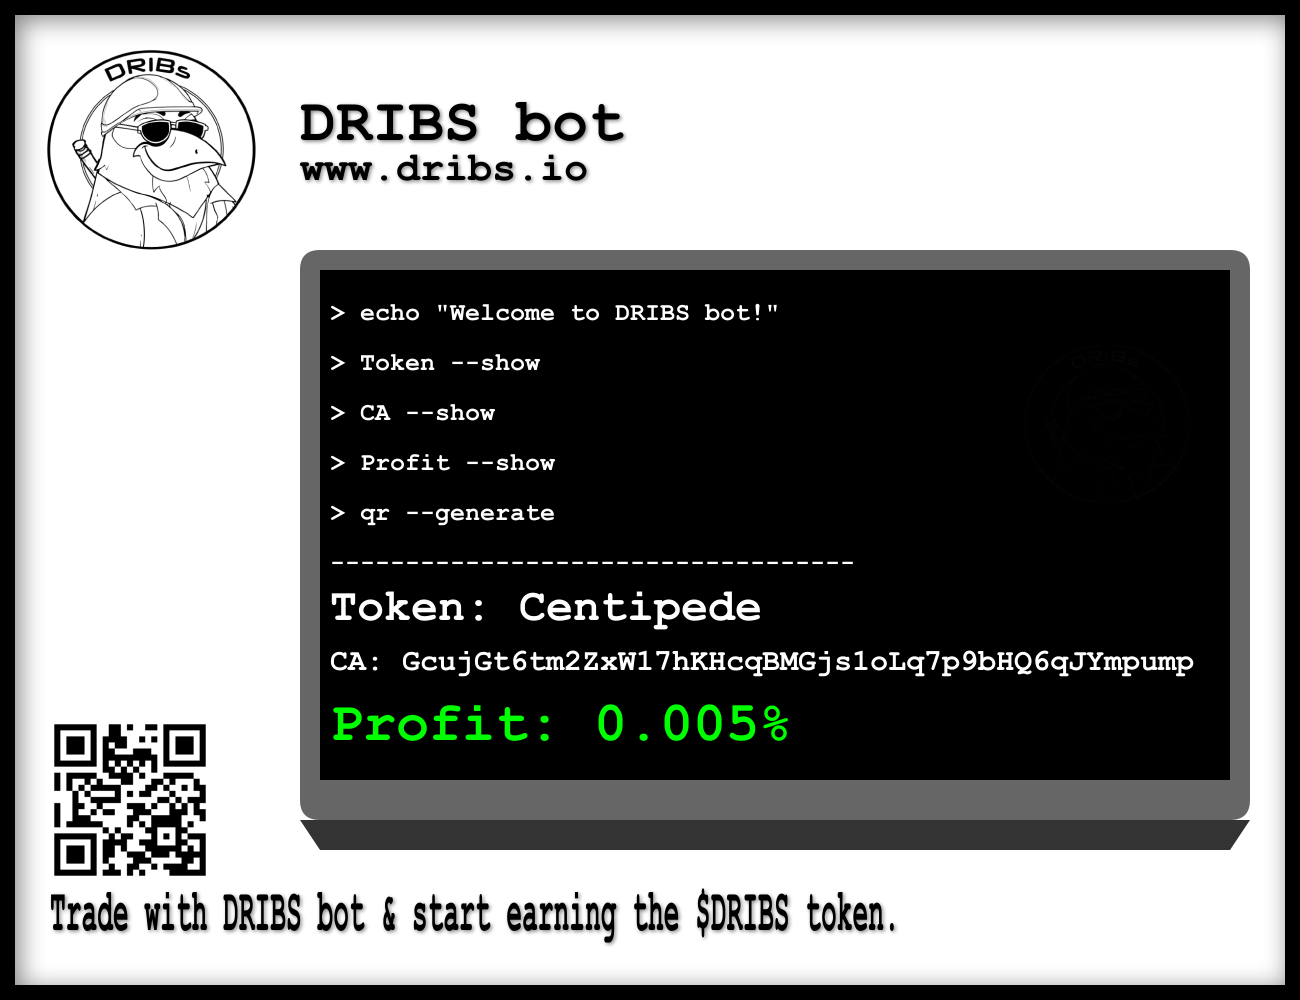
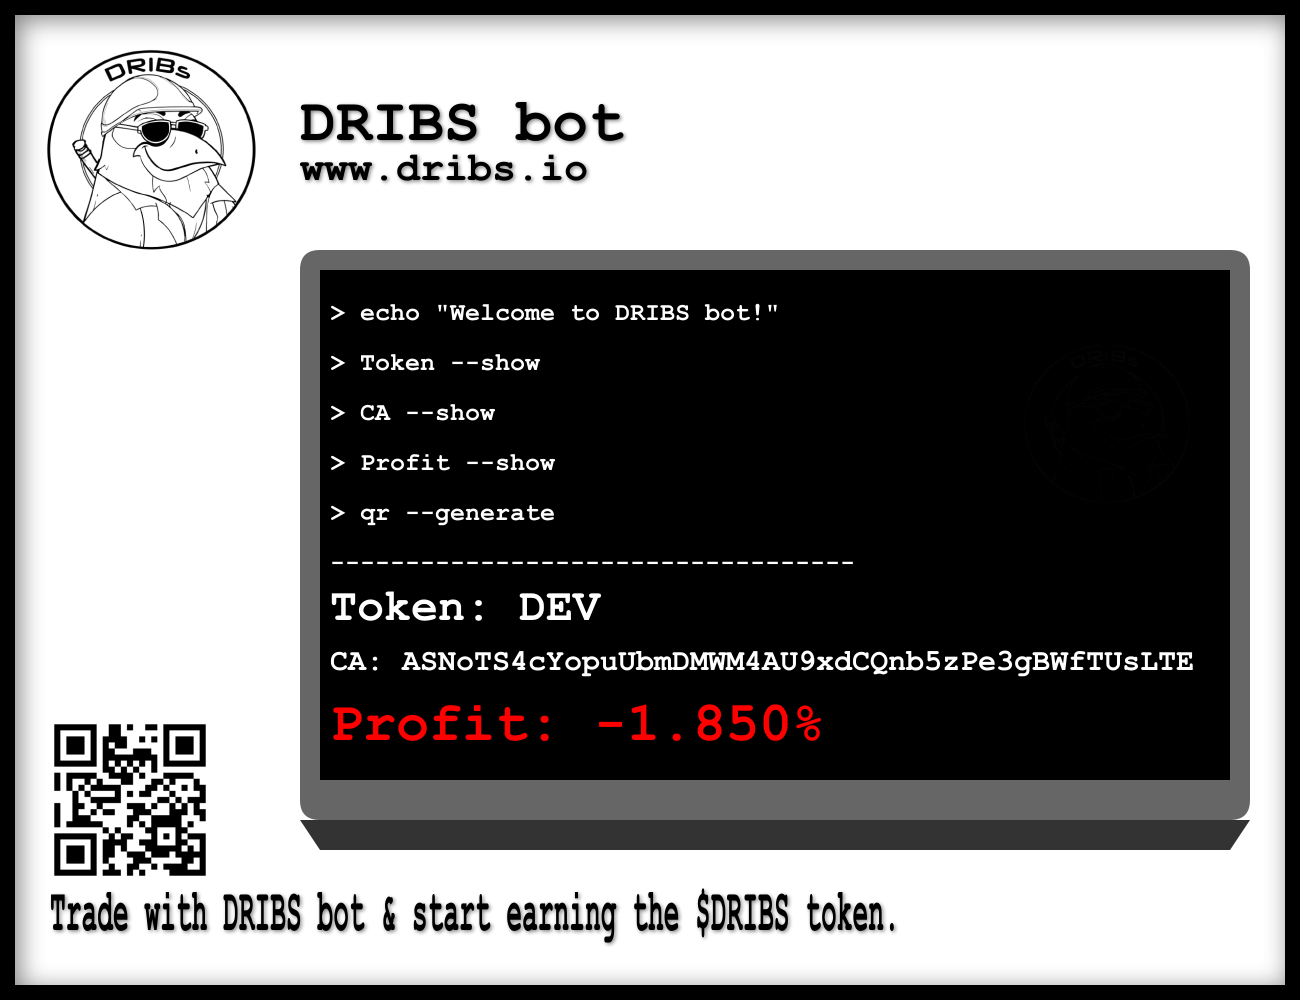
meteora verif

Changed region(s): [[0.2462, 0.651, 0.9231, 0.744], [0.4, 0.589, 0.5846, 0.62]]

diff --git a/src/views/jupiter/swapView.ts b/src/views/jupiter/swapView.ts
@@ -209,7 +209,7 @@ export async function display_jupSwapDetails(ctx: any, isRefresh: boolean) {
       // check if the token is tradable on jupiter
       const feeAccount = null;
       let swapUrl = `${rpcUrl}/jupiter/quote?inputMint=${SOL_ADDRESS}&outputMint=${token}&amount=${1}&slippageBps=${ctx.session.latestSlippage}${feeAccount ? '&platformFeeBps=08' : ''}`.trim();
-      
+      const optionsBird = {method: 'GET', headers: {'X-API-KEY': '2036bb1a097a4414a86ba8e3a8bdafbf'}};
       const [
         shitBalance,
         birdeyeData,
@@ -220,7 +220,9 @@ export async function display_jupSwapDetails(ctx: any, isRefresh: boolean) {
         userPosition,
         jupPriceImpact_5,
         jupSolPrice,
-        quoteResponse
+        quoteResponse,
+        tokenMarketData
+
       ] = await Promise.all([
         getuserShitBalance(publicKeyString,token, connection),
         getTokenDataFromBirdEyePositions(token, publicKeyString),
@@ -231,9 +233,23 @@ export async function display_jupSwapDetails(ctx: any, isRefresh: boolean) {
         UserPositions.find({ walletId: publicKeyString }, { positions: { $slice: -7 } }),
         fetch(`${rpcUrl}/jupiter/quote?inputMint=${SOL_ADDRESS}&outputMint=${token}&amount=${'5000000000'}&slippageBps=${1}`).then((response) => response.json()),
         fetch(`https://price.jup.ag/v6/price?ids=SOL`).then((response) => response.json()),
-        fetch(swapUrl).then(res => res.json())
-      ]);
+        fetch(swapUrl).then(res => res.json()),
+        fetch(`https://public-api.birdeye.so/defi/v2/markets?address=${token}&sort_by=liquidity&sort_type=desc`,optionsBird).then(response => response.json()),
 
+      ]);
+      // console.log('tokenMarketData:', tokenMarketData.data.items[0])
+      const items = tokenMarketData.data.items;
+      const exists = items.map((item: any) => ({
+        address: item.address,
+        hasMeteora: item.source.includes('Meteora')
+      }));
+      let onMeteora = false;
+    if(exists.length > 0){
+      const meteora = exists.find((item: any) => item.hasMeteora === true);
+      if(meteora){
+        onMeteora = true;
+      }
+    }
       const {
         
         birdeyeURL,
@@ -243,9 +259,9 @@ export async function display_jupSwapDetails(ctx: any, isRefresh: boolean) {
 
       const jupTokenValue: any = Object.values(jupTokenRate.data);
       let jupTokenPrice = 0;
-      // console.log('quoteResponse?.error_code:', quoteResponse)
-      if (jupTokenValue[0] && jupTokenValue[0].price && (quoteResponse?.errorCode !== 'TOKEN_NOT_TRADABLE' && quoteResponse?.errorCode !== 'COULD_NOT_FIND_ANY_ROUTE' ) ) {
-   
+      // console.log('tokenMetadataResult:', tokenMetadataResult)
+      if (jupTokenValue[0] && jupTokenValue[0].price && (quoteResponse?.errorCode !== 'TOKEN_NOT_TRADABLE' && quoteResponse?.errorCode !== 'COULD_NOT_FIND_ANY_ROUTE' ) || 
+      jupTokenValue[0] && jupTokenValue[0].price && (quoteResponse?.errorCode !== 'TOKEN_NOT_TRADABLE' && onMeteora === true)) {
         jupTokenPrice = jupTokenValue[0].price;
         console.log('jupToken')
         //if not on jupiter check if token is on raydium 
@@ -328,6 +344,7 @@ export async function display_jupSwapDetails(ctx: any, isRefresh: boolean) {
         profitInUSD = valueInUSD != 'N/A' ? Number(Number(userTokenDetails.userTokenBalance) * Number(tokenPriceUSD)) - initialInUSD : 'N/A';
         profitInSol = valueInSOL != 'N/A' ? (valueInSOL - initialInSOL).toFixed(4) : 'N/A';
       }
+      
       ctx.session.userProfit = Number(profitPercentage)
       const freezable = birdeyeData?.response2.data.freezeable ? "⚠ Be careful: This token is freezable." : "✅ Not freezable.";
       let messageText = `<b>------ ${tokenData.name}(${tokenData.symbol}) ------</b> | 📄 CA: <code>${token}</code> <a href="copy:${token}">🅲</a>\n` +

diff --git a/src/views/util/verifySwapDex.ts b/src/views/util/verifySwapDex.ts
@@ -9,22 +9,37 @@ export async function verify_position_dex(ctx: any, token: string) {
     `${rpcUrl}/jupiter/quote?inputMint=${SOL_ADDRESS}&outputMint=${token}&amount=${1}&slippageBps=${
       ctx.session.latestSlippage
     }${feeAccount ? "&platformFeeBps=08" : ""}`.trim();
+    const optionsBird = {method: 'GET', headers: {'X-API-KEY': '2036bb1a097a4414a86ba8e3a8bdafbf'}};
 
-  const [jupTokenRate, quoteResponse] = await Promise.all([
+  const [jupTokenRate, quoteResponse,tokenMarketData] = await Promise.all([
     fetch(
       `https://price.jup.ag/v6/price?ids=${token}&vsToken=So11111111111111111111111111111111111111112`
     ).then((response) => response.json()),
     fetch(swapUrl).then((response) => response.json()),
+    fetch(`https://public-api.birdeye.so/defi/v2/markets?address=${token}&sort_by=liquidity&sort_type=desc`,optionsBird).then(response => response.json()),
+
   ]);
+  const items = tokenMarketData.data.items;
+  const exists = items.map((item: any) => ({
+    address: item.address,
+    hasMeteora: item.source.includes('Meteora')
+  }));
+  let onMeteora = false;
+if(exists.length > 0){
+  const meteora = exists.find((item: any) => item.hasMeteora === true);
+  if(meteora){
+    onMeteora = true;
+  }
+}
   const jupTokenValue: any = Object.values(jupTokenRate.data);
   let isOnJupiter = false;
   console.log("quoteResponse", quoteResponse);
   if (
-    jupTokenValue[0] &&
+   ( jupTokenValue[0] &&
     jupTokenValue[0].price &&
     quoteResponse?.errorCode !== "TOKEN_NOT_TRADABLE" 
     && quoteResponse?.errorCode !== 'COULD_NOT_FIND_ANY_ROUTE'
-
+) || jupTokenValue[0] && jupTokenValue[0].price && (quoteResponse?.errorCode !== 'TOKEN_NOT_TRADABLE' && onMeteora === true)
   ) {
     isOnJupiter = true;
   }

diff --git a/src/views/util/image.ts b/src/views/util/image.ts
@@ -3,6 +3,9 @@ const QRCode = require('qr-image');
 const fs = require('fs');
 
 export async function createTradeImage(tokenName: any, contract: any,  profit: number ) {
+  try{
+
+
   const width = 1300;
   const height = 1000;
   const canvas = createCanvas(width, height);
@@ -157,6 +160,9 @@ export async function createTradeImage(tokenName: any, contract: any,  profit: n
 
   // Get the image as a buffer
   return canvas.toBuffer('image/png');
+} catch (error: any) {
+  console.error('Error creating PNL IMAGE:', error.message);
+}
 }
 
 // createTradeImage(

diff --git a/src/service/dex/raydium/utils/formatAmmKeysById.ts b/src/service/dex/raydium/utils/formatAmmKeysById.ts
@@ -162,6 +162,7 @@ async function _getRayPoolKeys({
 }> {
   const commitment = "processed";
   const AMMV4 = new PublicKey("675kPX9MHTjS2zt1qfr1NYHuzeLXfQM9H24wFSUt1Mp8");
+  const Meteora = new PublicKey("Eo7WjKq67rjJQSZxS6z3YkapzY3eMj6Xy8X5EQVn5UaB");
   let baseMint = new PublicKey(t1);
   let quoteMint = new PublicKey(t2);
   let isCpmmPool = false;
